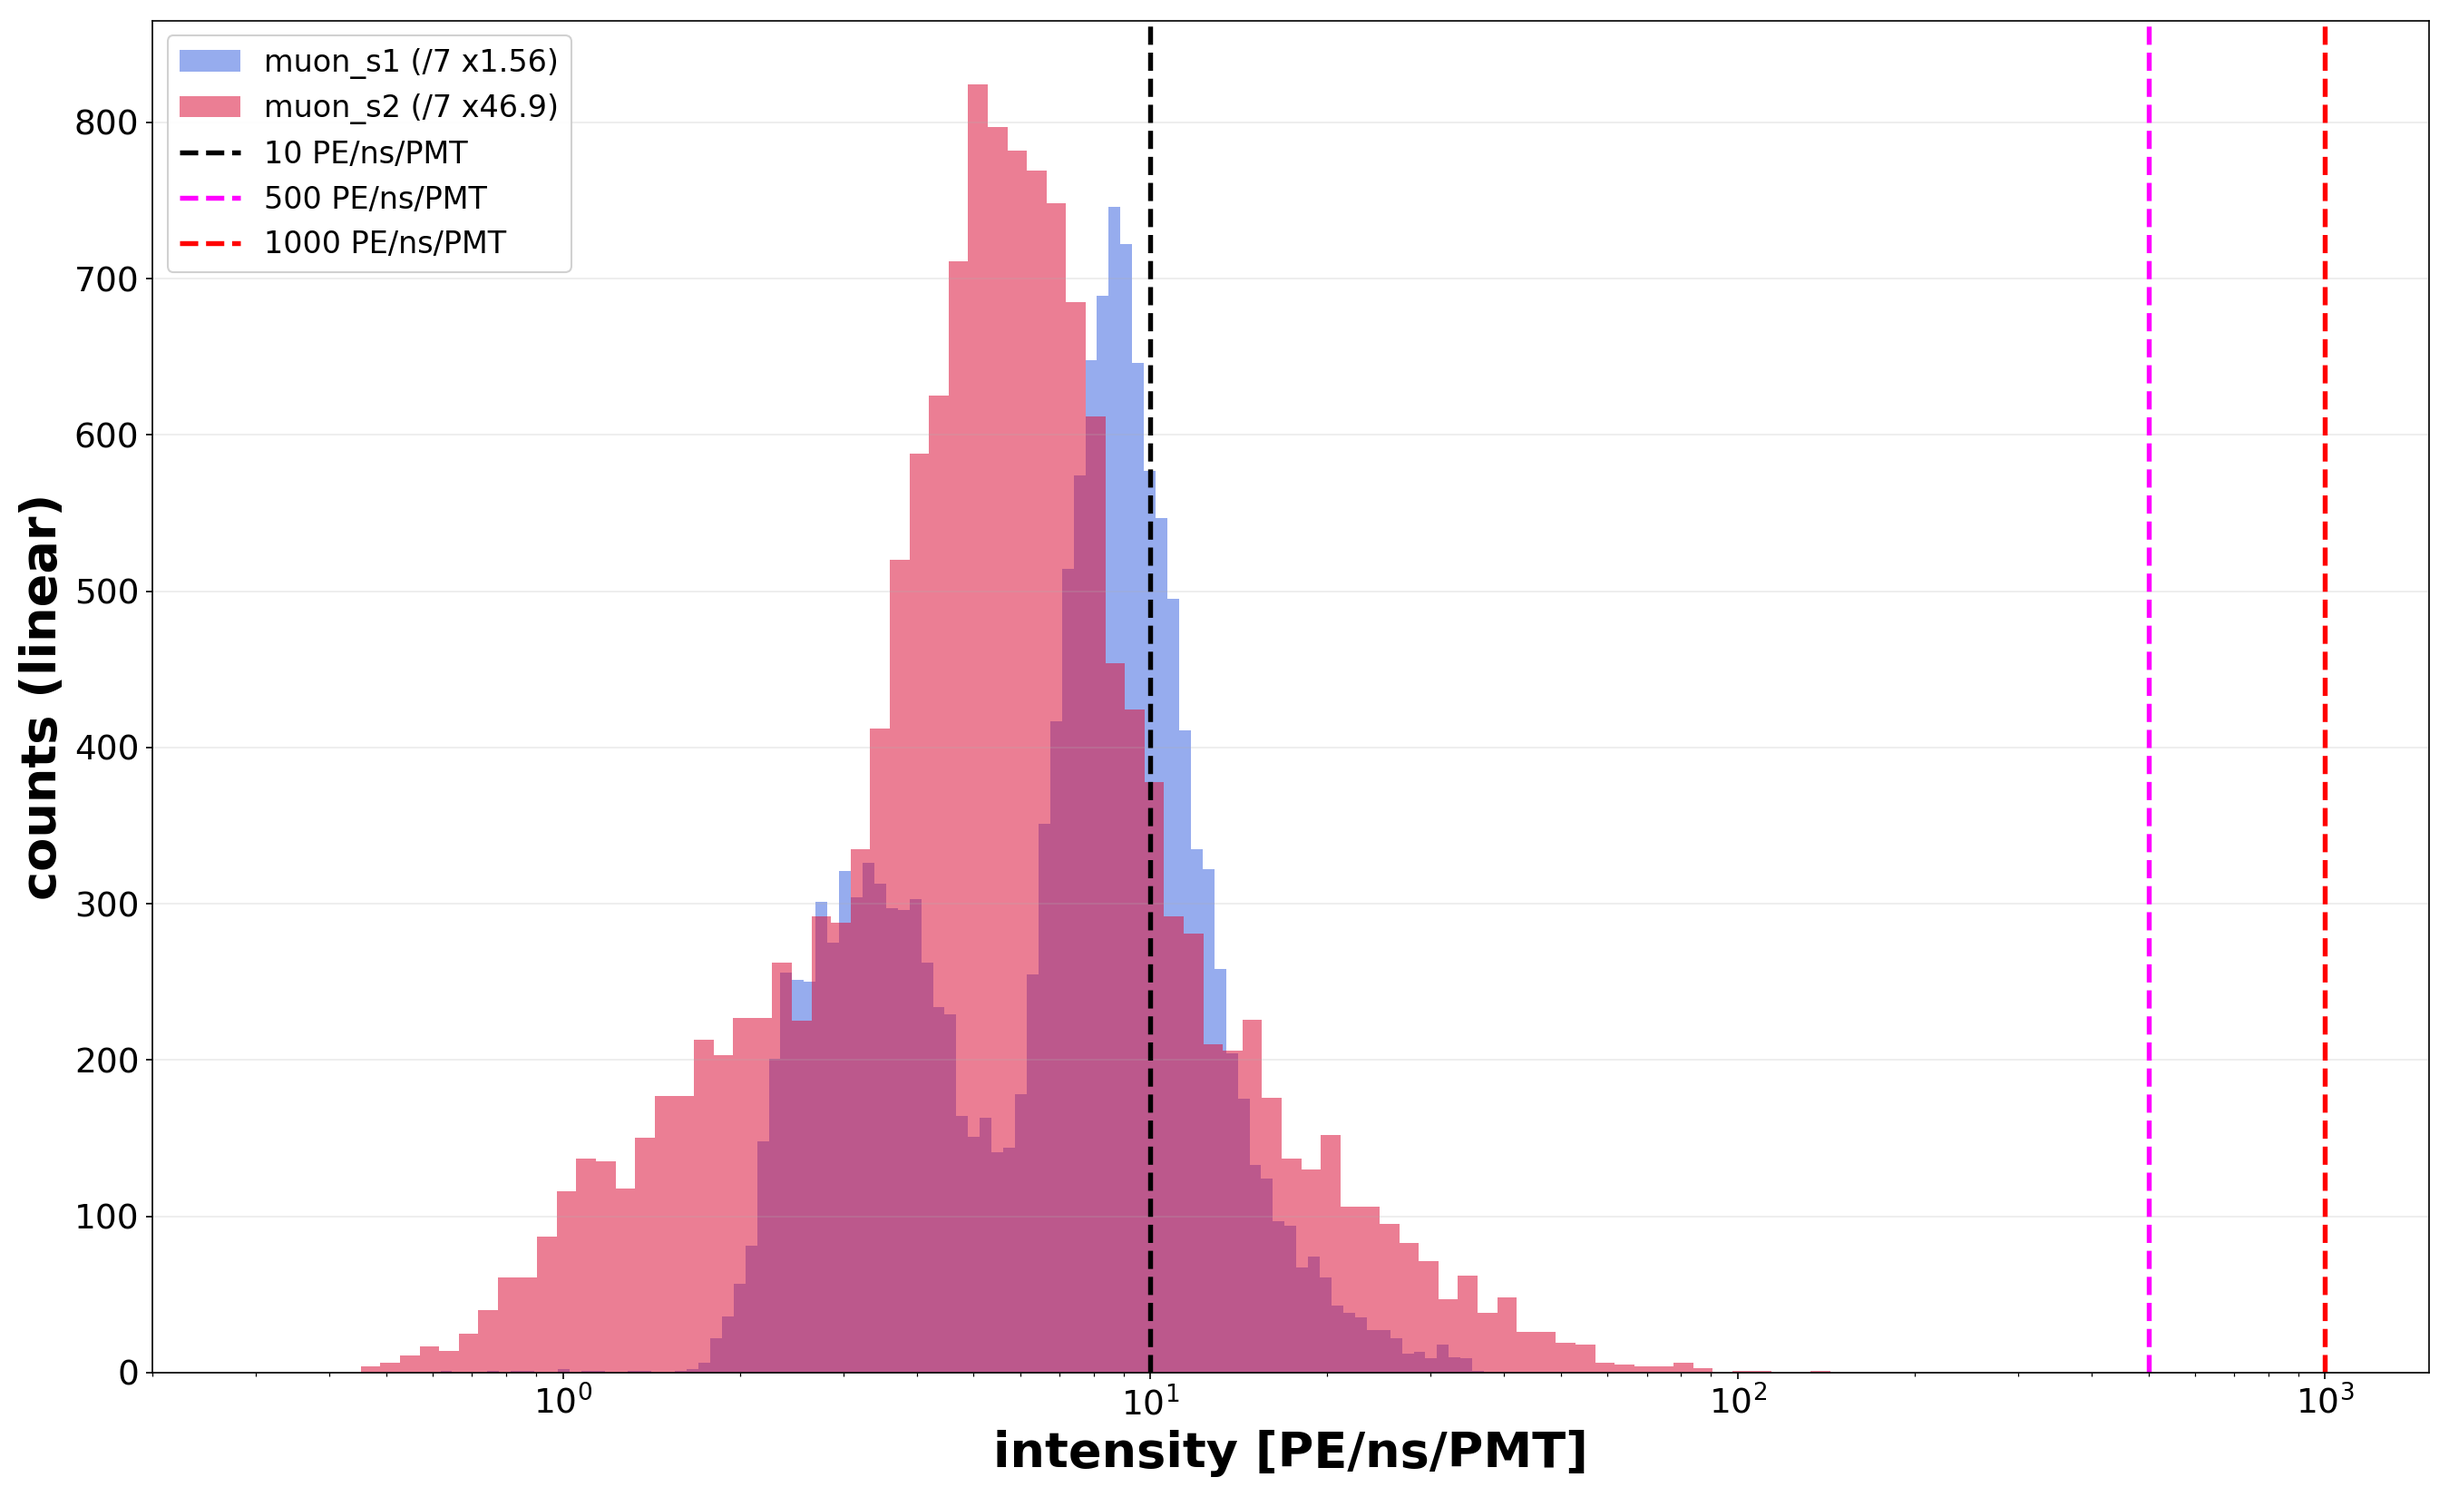
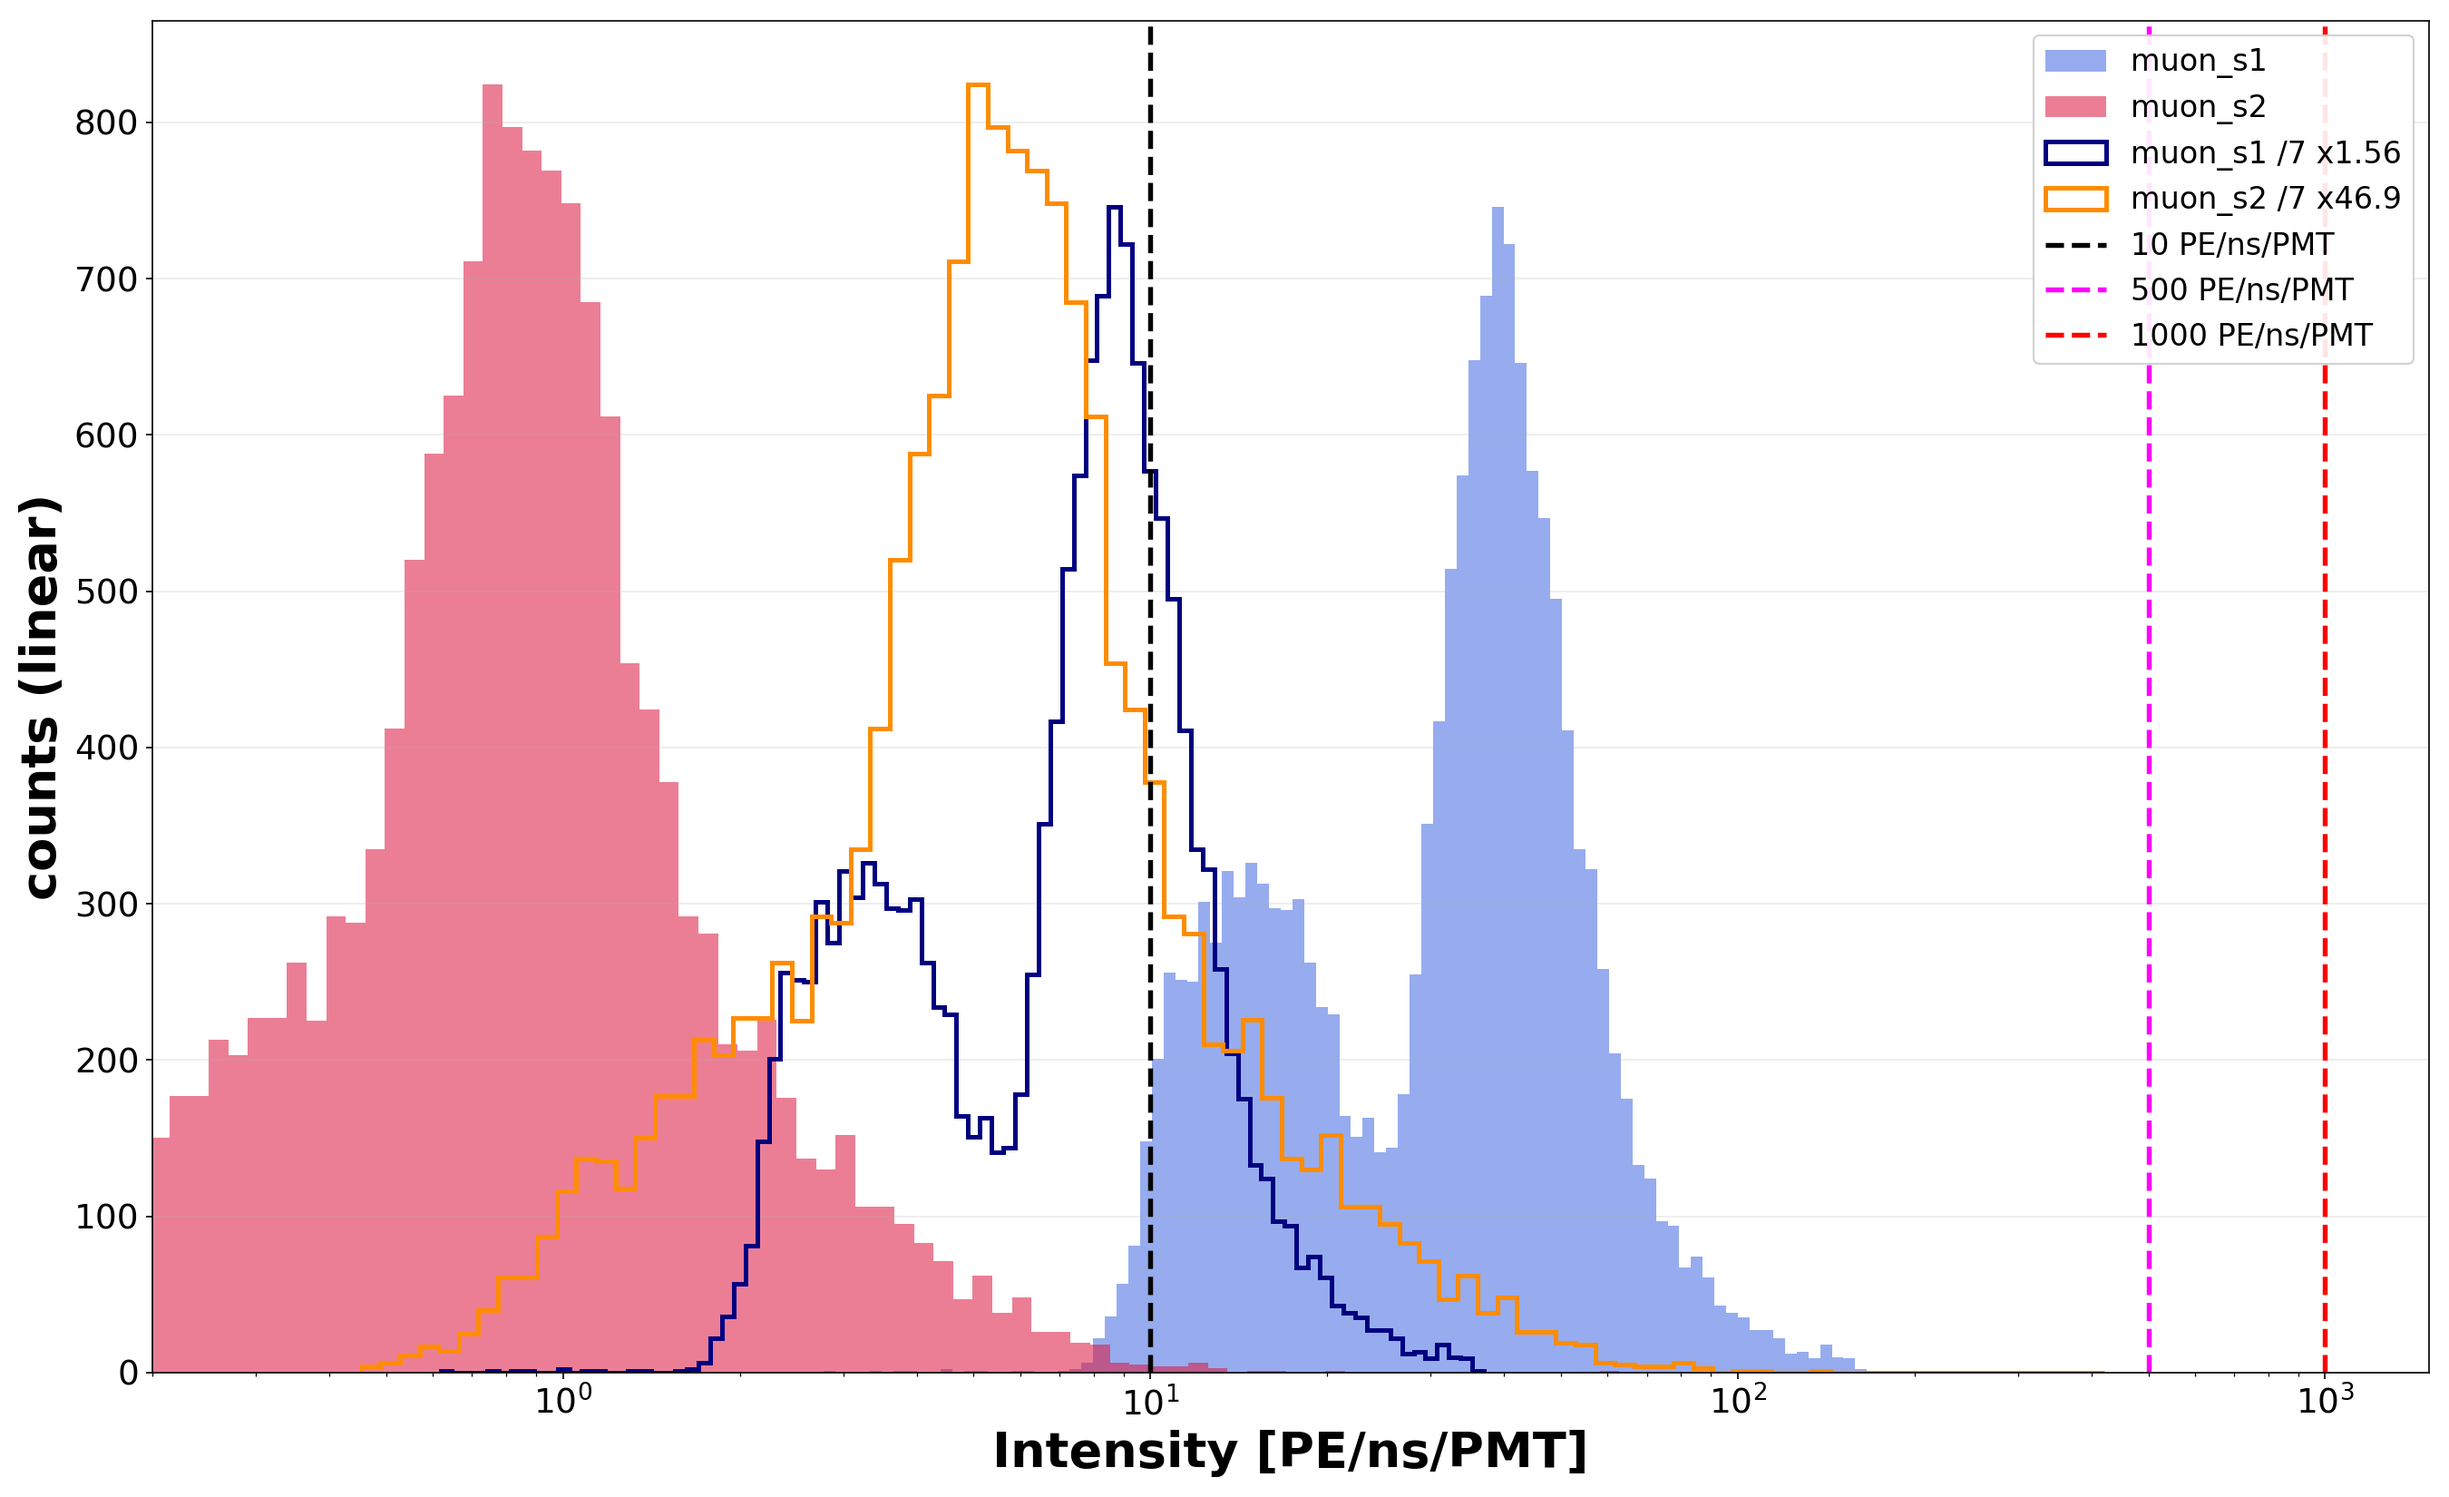
Keep raw spectra filled + /7 x-scaled as step; x label Intensity [PE/ns/PMT]

Changed region(s): [[0.0622, 0.0309, 0.7778, 0.9273], [0.84, 0.0309, 0.9956, 0.2473]]

diff --git a/scripts/plot_muon_s1s2_params.py b/scripts/plot_muon_s1s2_params.py
@@ -126,17 +126,21 @@ draw_2d(lo, "co60_590_v2_muon_s1s2_2d_lowarea.png",
 # --- Figure 3: light intensity (area / width) histograms ---
 N_PMT = 7.0
 SCALE_S1, SCALE_S2 = 1.56, 46.9
-s1_int = (m["muon_s1_area_an"] / m["muon_s1_width_ns"])
-s1_int = s1_int.replace([np.inf, -np.inf], np.nan).dropna()
-s1_int = s1_int[s1_int > 0] / N_PMT * SCALE_S1
-s2_int = (m["muon_s2_area_an"] / m["muon_s2_width_ns"])
-s2_int = s2_int.replace([np.inf, -np.inf], np.nan).dropna()
-s2_int = s2_int[s2_int > 0] / N_PMT * SCALE_S2
+s1_raw = (m["muon_s1_area_an"] / m["muon_s1_width_ns"])
+s1_raw = s1_raw.replace([np.inf, -np.inf], np.nan).dropna()
+s1_raw = s1_raw[s1_raw > 0]
+s2_raw = (m["muon_s2_area_an"] / m["muon_s2_width_ns"])
+s2_raw = s2_raw.replace([np.inf, -np.inf], np.nan).dropna()
+s2_raw = s2_raw[s2_raw > 0]
+s1_int = s1_raw / N_PMT * SCALE_S1
+s2_int = s2_raw / N_PMT * SCALE_S2
 def draw_intensity(yscale, name):
     fig, ax = plt.subplots(figsize=(18, 11))
     curves = [
-        (s1_int, "royalblue", f"muon_s1 (/7 x{SCALE_S1:g})", "stepfilled", 0.55),
-        (s2_int, "crimson", f"muon_s2 (/7 x{SCALE_S2:g})", "stepfilled", 0.55),
+        (s1_raw, "royalblue", "muon_s1", "stepfilled", 0.55),
+        (s2_raw, "crimson", "muon_s2", "stepfilled", 0.55),
+        (s1_int, "navy", f"muon_s1 /7 x{SCALE_S1:g}", "step", 1.0),
+        (s2_int, "darkorange", f"muon_s2 /7 x{SCALE_S2:g}", "step", 1.0),
     ]
     for v, color, lab, htype, alpha in curves:
         bins = np.logspace(np.log10(v.min()), np.log10(v.max()), 90)
@@ -147,7 +151,7 @@ def draw_intensity(yscale, name):
     ax.set_xscale("log")
     ax.set_yscale(yscale)
     ax.set_xlim(2e-1, 1.5e3)
-    ax.set_xlabel("intensity [PE/ns/PMT]")
+    ax.set_xlabel("Intensity [PE/ns/PMT]")
     ax.set_ylabel(f"counts ({yscale})")
     ax.grid(True, axis="y", alpha=0.25)
     ax.legend(framealpha=0.9)
